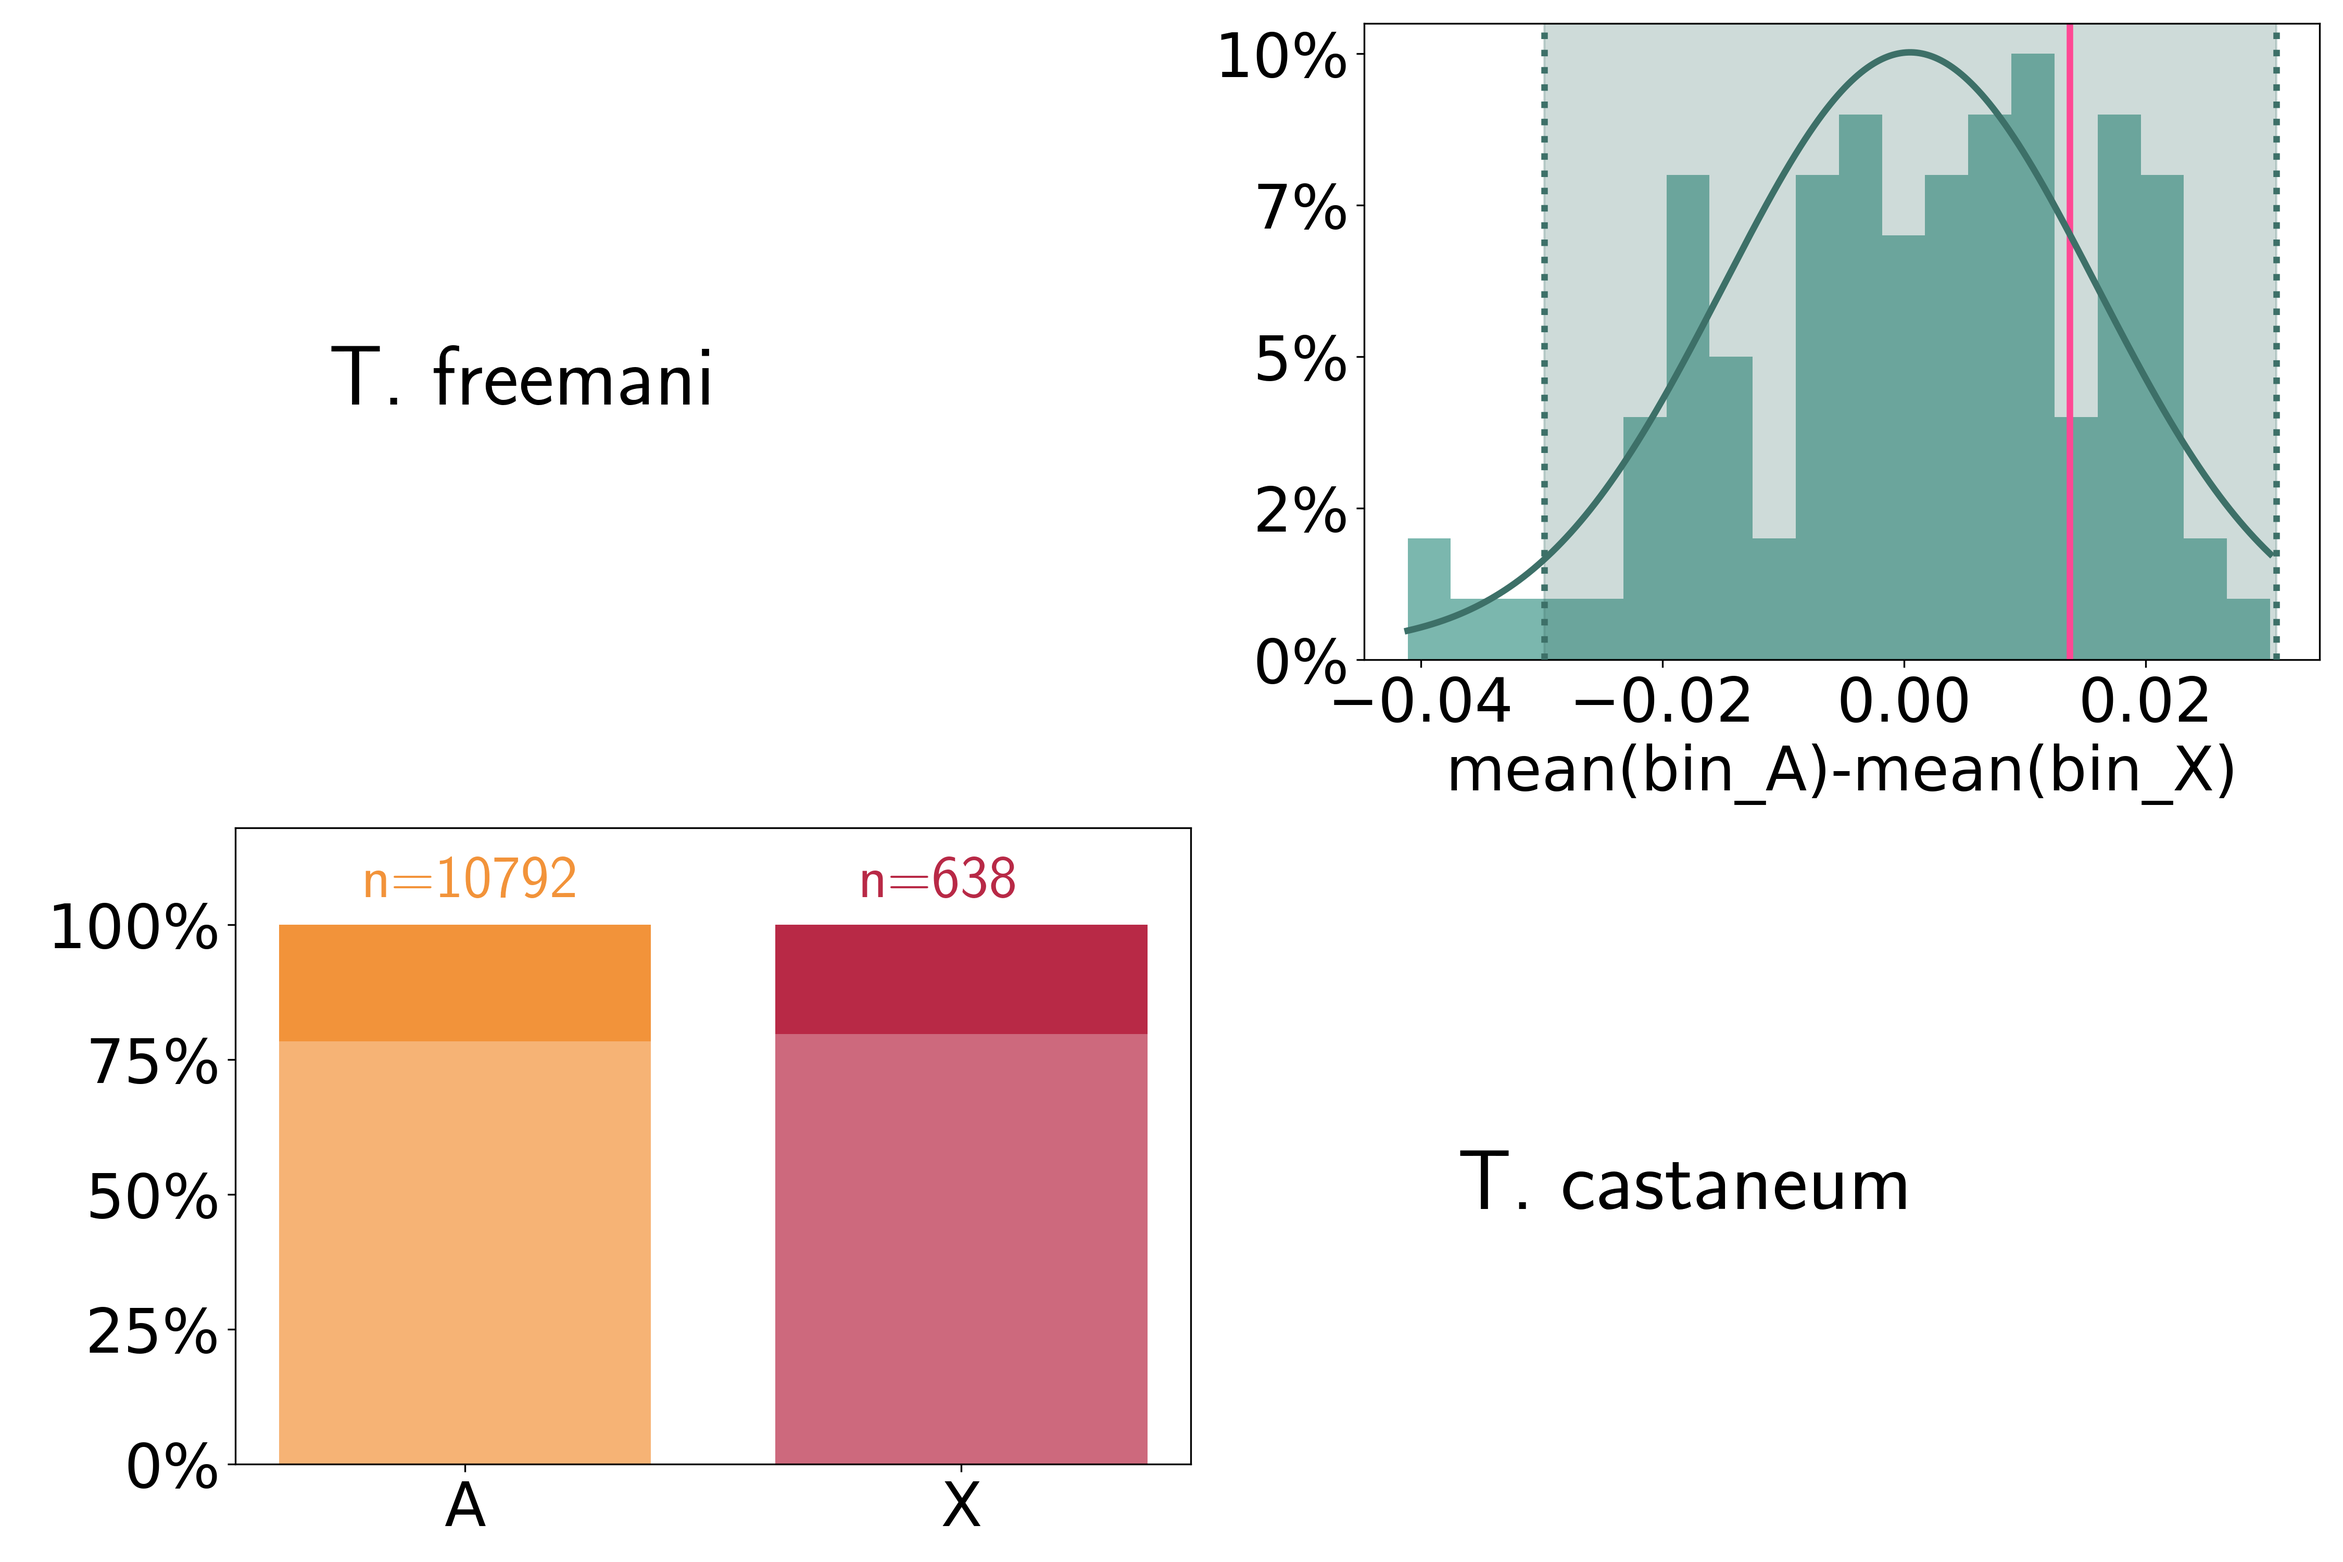
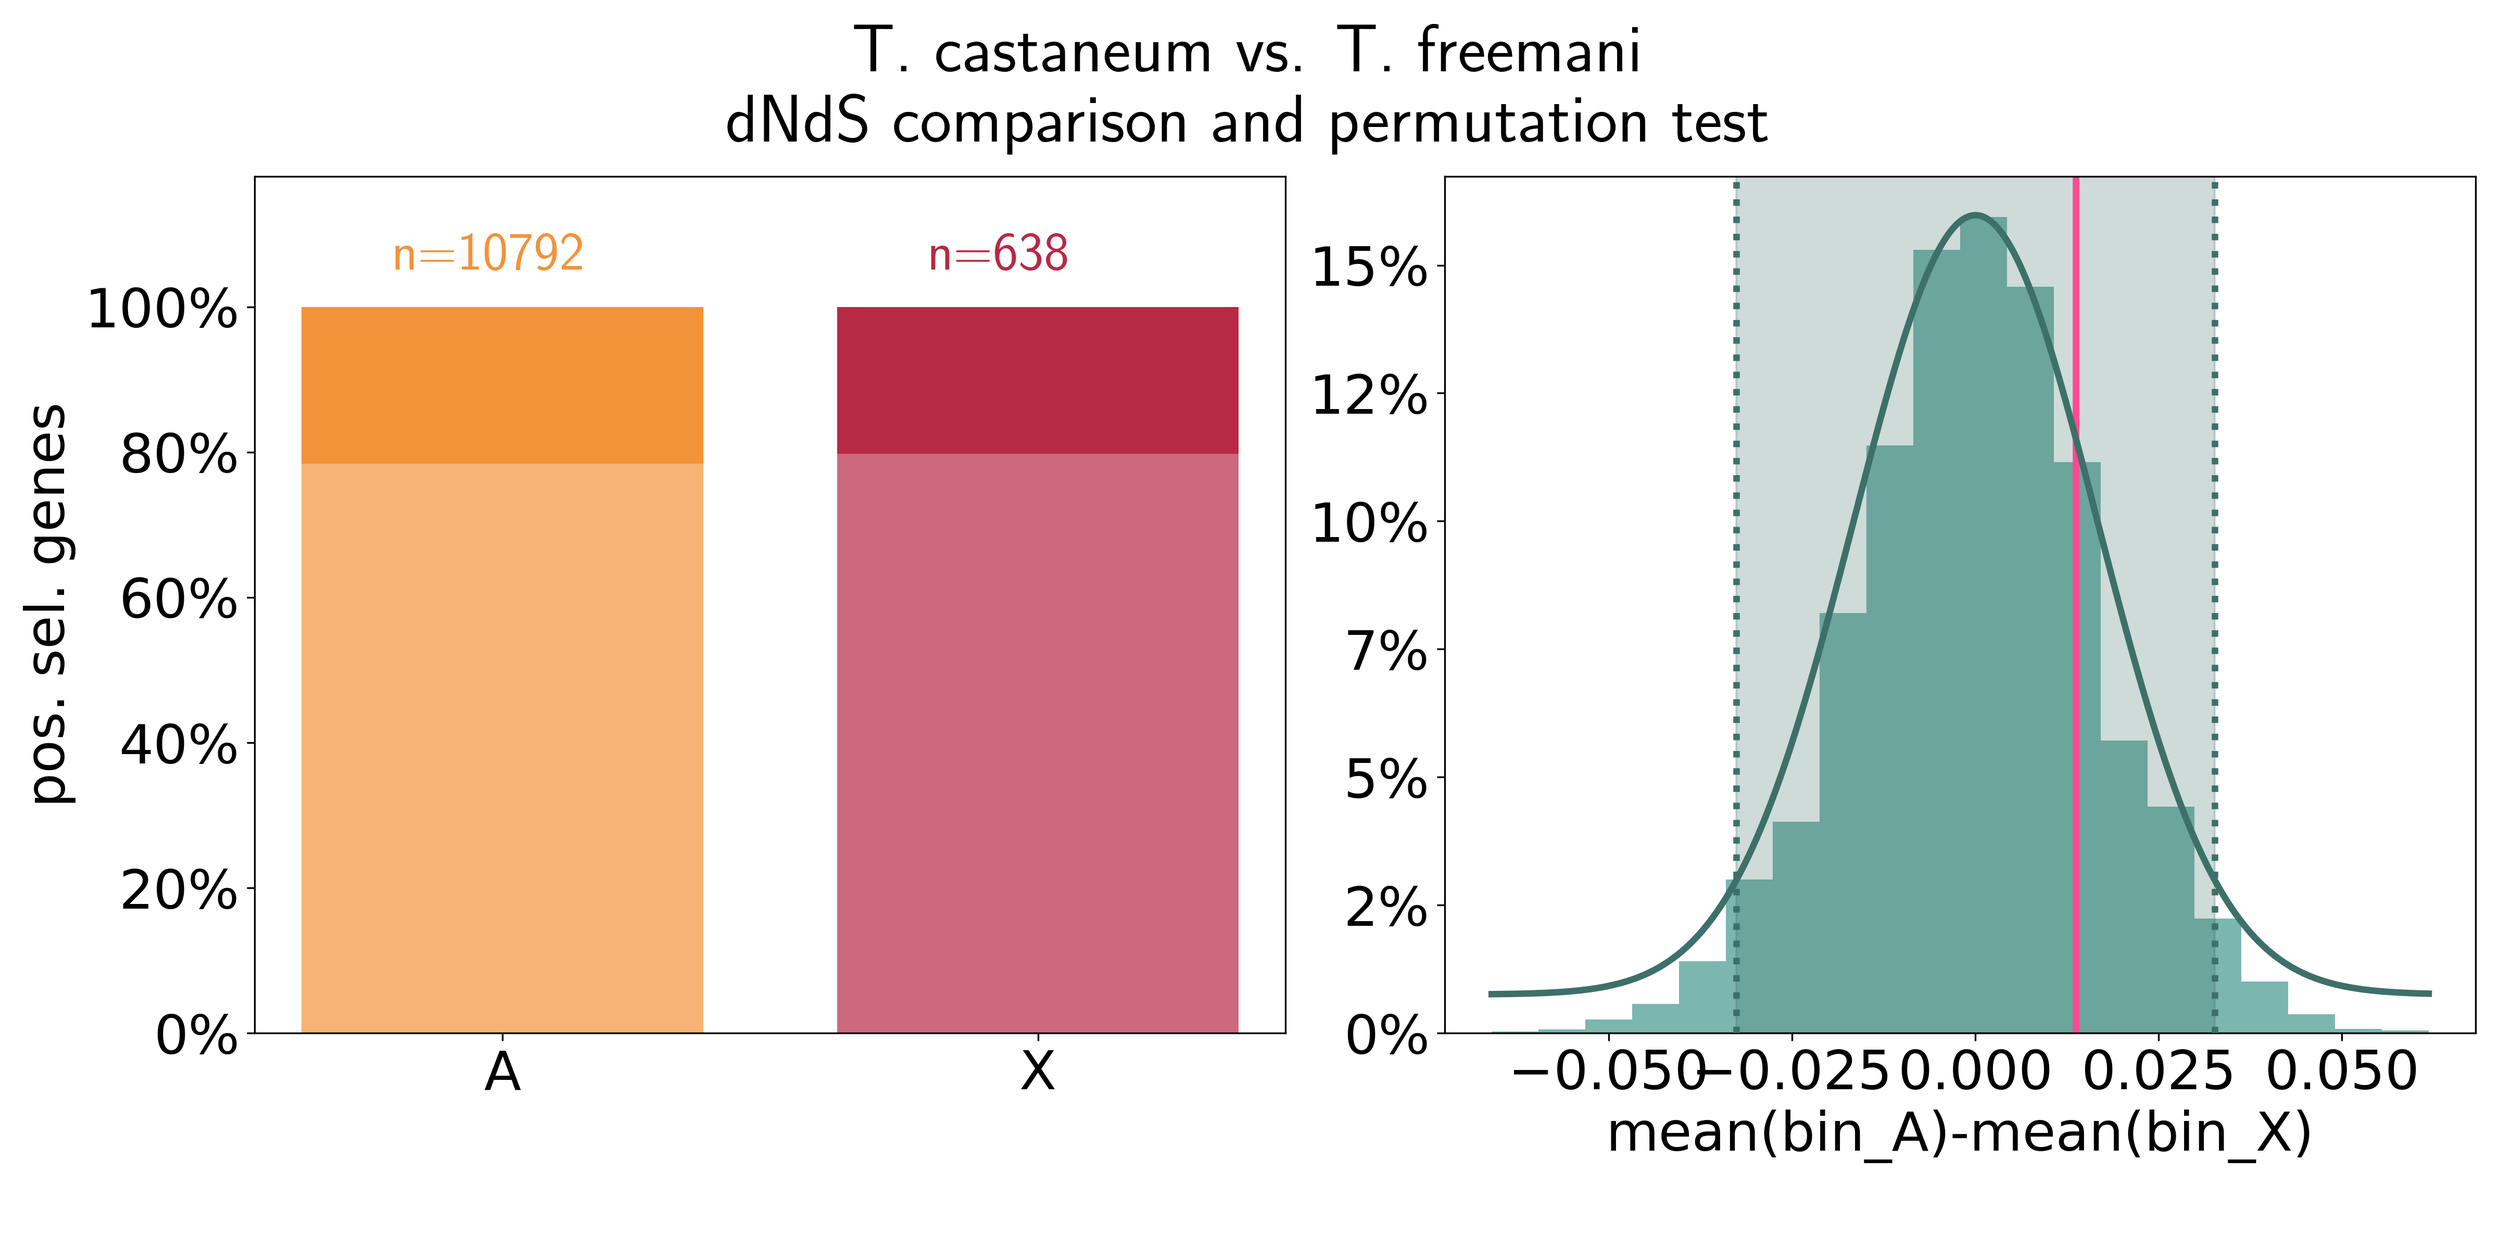
update figures

diff --git a/src/plotting/analyze_site_classes.py b/src/plotting/analyze_site_classes.py
@@ -249,6 +249,35 @@ def binary_barplot_pair(data_A, data_X, row, col, n_A, n_X, axes, colors_dict, f
     axes[row,col].tick_params(axis='x', labelsize=fs) 
 
 
+def binary_barplot_single_pair(data_A, data_X, row, n_A, n_X, axes, colors_dict, fs, ylab ="percent", xticks = ["A", "X"]):
+    """
+    plot a bar chart to show proportion of genes that have a positive site-class model LRT
+    """
+    A_nonsig = len([val for val in data_A if val == 0.0])*100.0
+    X_nonsig = len([val for val in data_X if val == 0.0])*100.0
+    nonsig = [A_nonsig/len(data_A), X_nonsig/len(data_X)]
+    A_sig = len([val for val in data_A if val == 1.0])*100.0
+    X_sig = len([val for val in data_X if val == 1.0])*100.0
+    sig = [A_sig/len(data_A), X_sig/len(data_X)]
+
+    axes[row].bar([1,2], nonsig, width = 0.75, label='M1a', color=[colors_dict["A"], colors_dict["X"]], alpha=0.7)
+    axes[row].bar([1,2], sig, width = 0.75, bottom=nonsig, label='M2a', color= [colors_dict["A"], colors_dict["X"]])
+    print(f"\t - row: {row}\t nonsignificant: A= {nonsig[0]:.2f}% X={nonsig[1]:.2f}%")
+    print(f"\t - row: {row}\t significant: A= {sig[0]:.2f}% X={sig[1]:.2f}%")
+
+    axes[row].set_ylim([0,118])
+    axes[row].yaxis.set_major_formatter(FuncFormatter(lambda x, pos: '' if x > 100 and x<1 else f'{int(x)}%'))
+
+    axes[row].text(1-0.2, 105, f"n={n_A}", fontsize = fs, color = colors_dict["A"])
+    axes[row].text(2-0.2, 105, f"n={n_X}", fontsize = fs, color = colors_dict["X"])
+    axes[row].set_xticks([1,2])
+    axes[row].set_xticklabels(xticks)
+    axes[row].set_xlabel('')
+    axes[row].set_ylabel(ylab, fontsize = fs)
+    axes[row].tick_params(axis='y', labelsize=fs)
+    axes[row].tick_params(axis='x', labelsize=fs) 
+
+
 if __name__ == "__main__":
     
 
@@ -317,7 +346,7 @@ if __name__ == "__main__":
     
     ####
     #  test with 100, takes a bit of time otherwise
-    num_permutations = 100
+    num_permutations = 10000
     ####
 
     for pair in pairs_list:
@@ -335,7 +364,14 @@ if __name__ == "__main__":
         violin_ymax=0
         binary=True
 
-    bootstrap_dNdS.plot_dNdS_permutations(boot_diff=bootstraps,measure_diff=mean_num_pos_sel, A_dict=pos_list_A, X_dict=pos_list_X, 
+    if len(pairs_list)>1:
+        print(f"plot pairwise matrix ...")
+        bootstrap_dNdS.plot_dNdS_permutations(boot_diff=bootstraps,measure_diff=mean_num_pos_sel, A_dict=pos_list_A, X_dict=pos_list_X, 
+                                            filename=filename, hist_label = f"mean({type_plot}_A)-mean({type_plot}_X)", violin_label=f"{type_plot}. pos. sel.", 
+                                            violin_ymax=violin_ymax, transparent=False, binary=binary)
+    else:
+        print(f"plot one pair ...")
+        bootstrap_dNdS.plot_dNdS_permutations_one_pair(boot_diff=bootstraps,measure_diff=mean_num_pos_sel, A_dict=pos_list_A, X_dict=pos_list_X, 
                                             filename=filename, hist_label = f"mean({type_plot}_A)-mean({type_plot}_X)", violin_label=f"{type_plot}. pos. sel.", 
                                             violin_ymax=violin_ymax, transparent=False, binary=binary)
     

diff --git a/src/plotting/bootstrap_dNdS.py b/src/plotting/bootstrap_dNdS.py
@@ -346,7 +346,7 @@ def plot_dNdS_permutations_one_pair(boot_diff:dict, measure_diff:dict, A_dict:di
         data_AX = [data_A, data_X]
 
         if binary:
-            site_classes.binary_barplot_pair(data_A=data_A, data_X=data_X, row=col, col=row, n_A=n_A, n_X=n_X, axes=axes, colors_dict=colors_dict, fs = fs, ylab ="pos. sel. genes")
+            site_classes.binary_barplot_single_pair(data_A=data_A, data_X=data_X, row=0, n_A=n_A, n_X=n_X, axes=axes, colors_dict=colors_dict, fs = fs, ylab ="pos. sel. genes")
         else:
             violinplot_pair_single(data_A_X=data_AX, col=0, n_A=n_A, n_X=n_X, mean_A=mean_A, mean_X=mean_X, axes = axes, colors_dict=colors_dict, fs = fs, xlab = violin_label, ymax = violin_ymax)
         # axes[col,row].set_title(f'{species2}\n{species1}', fontsize = fs*0.85)
